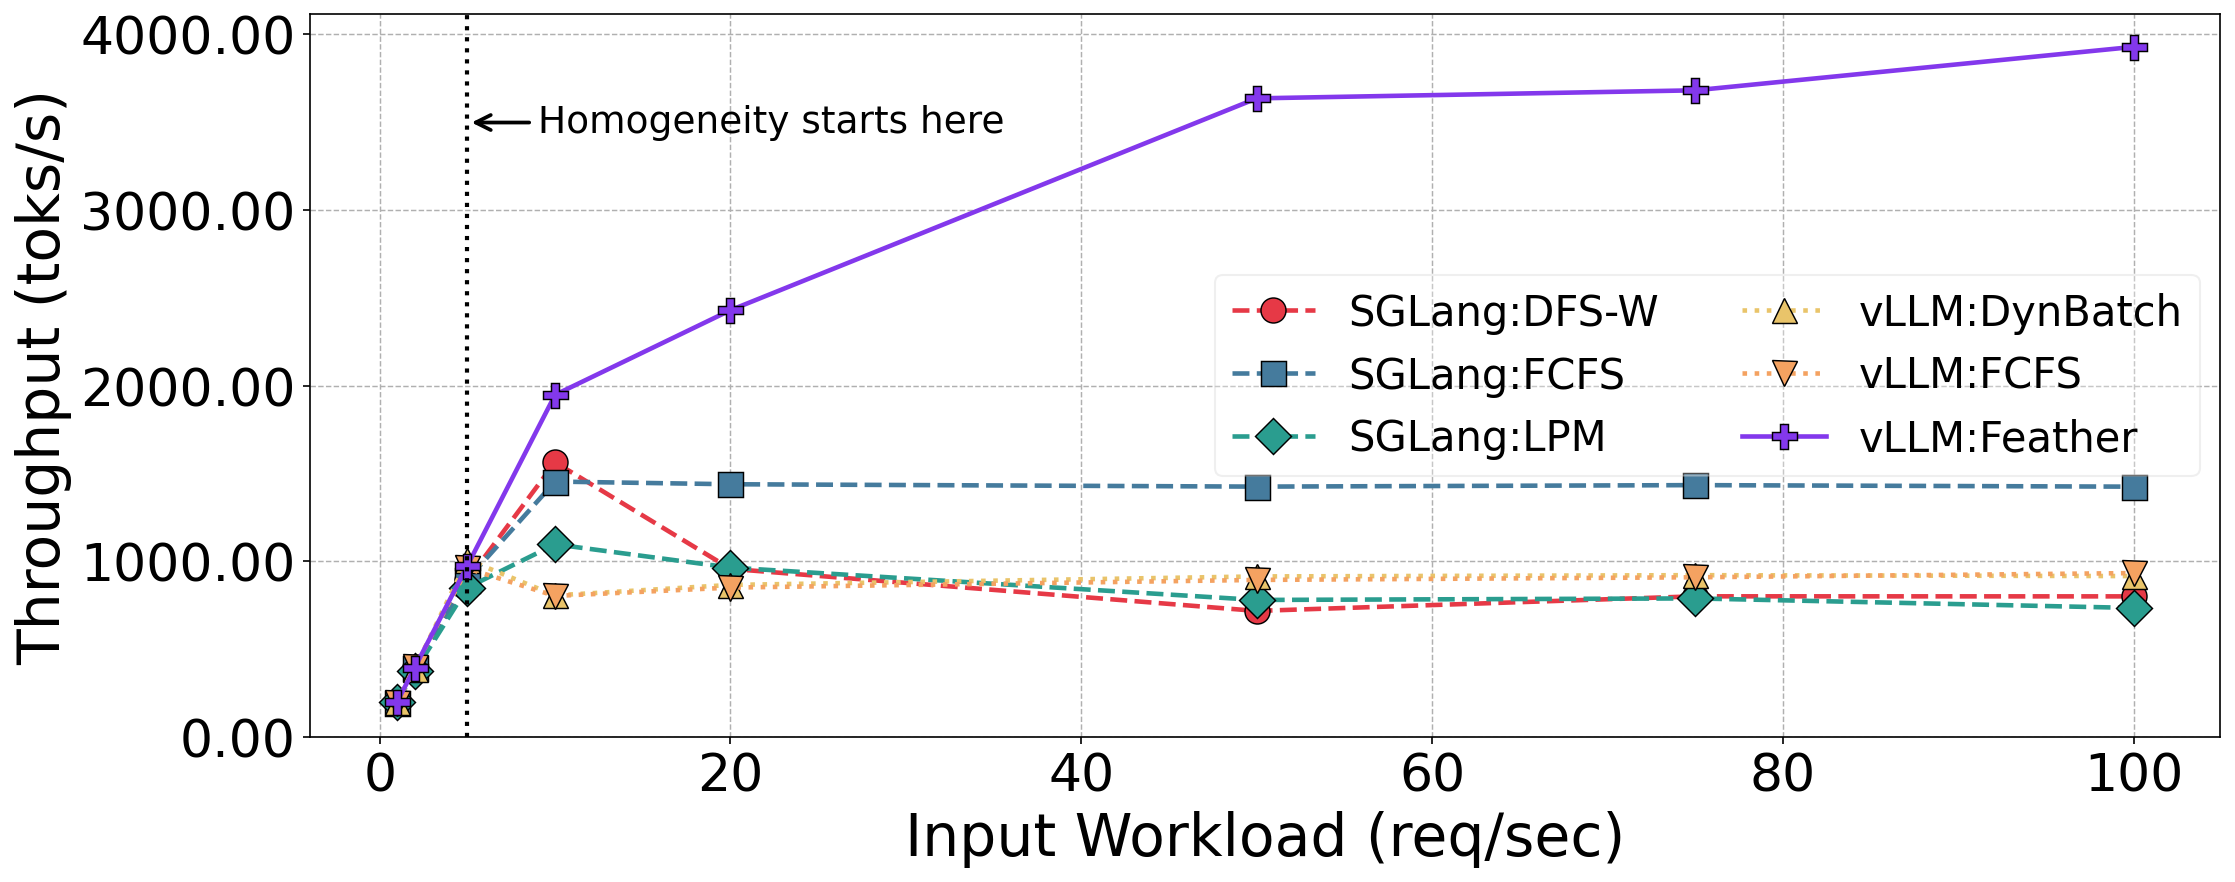
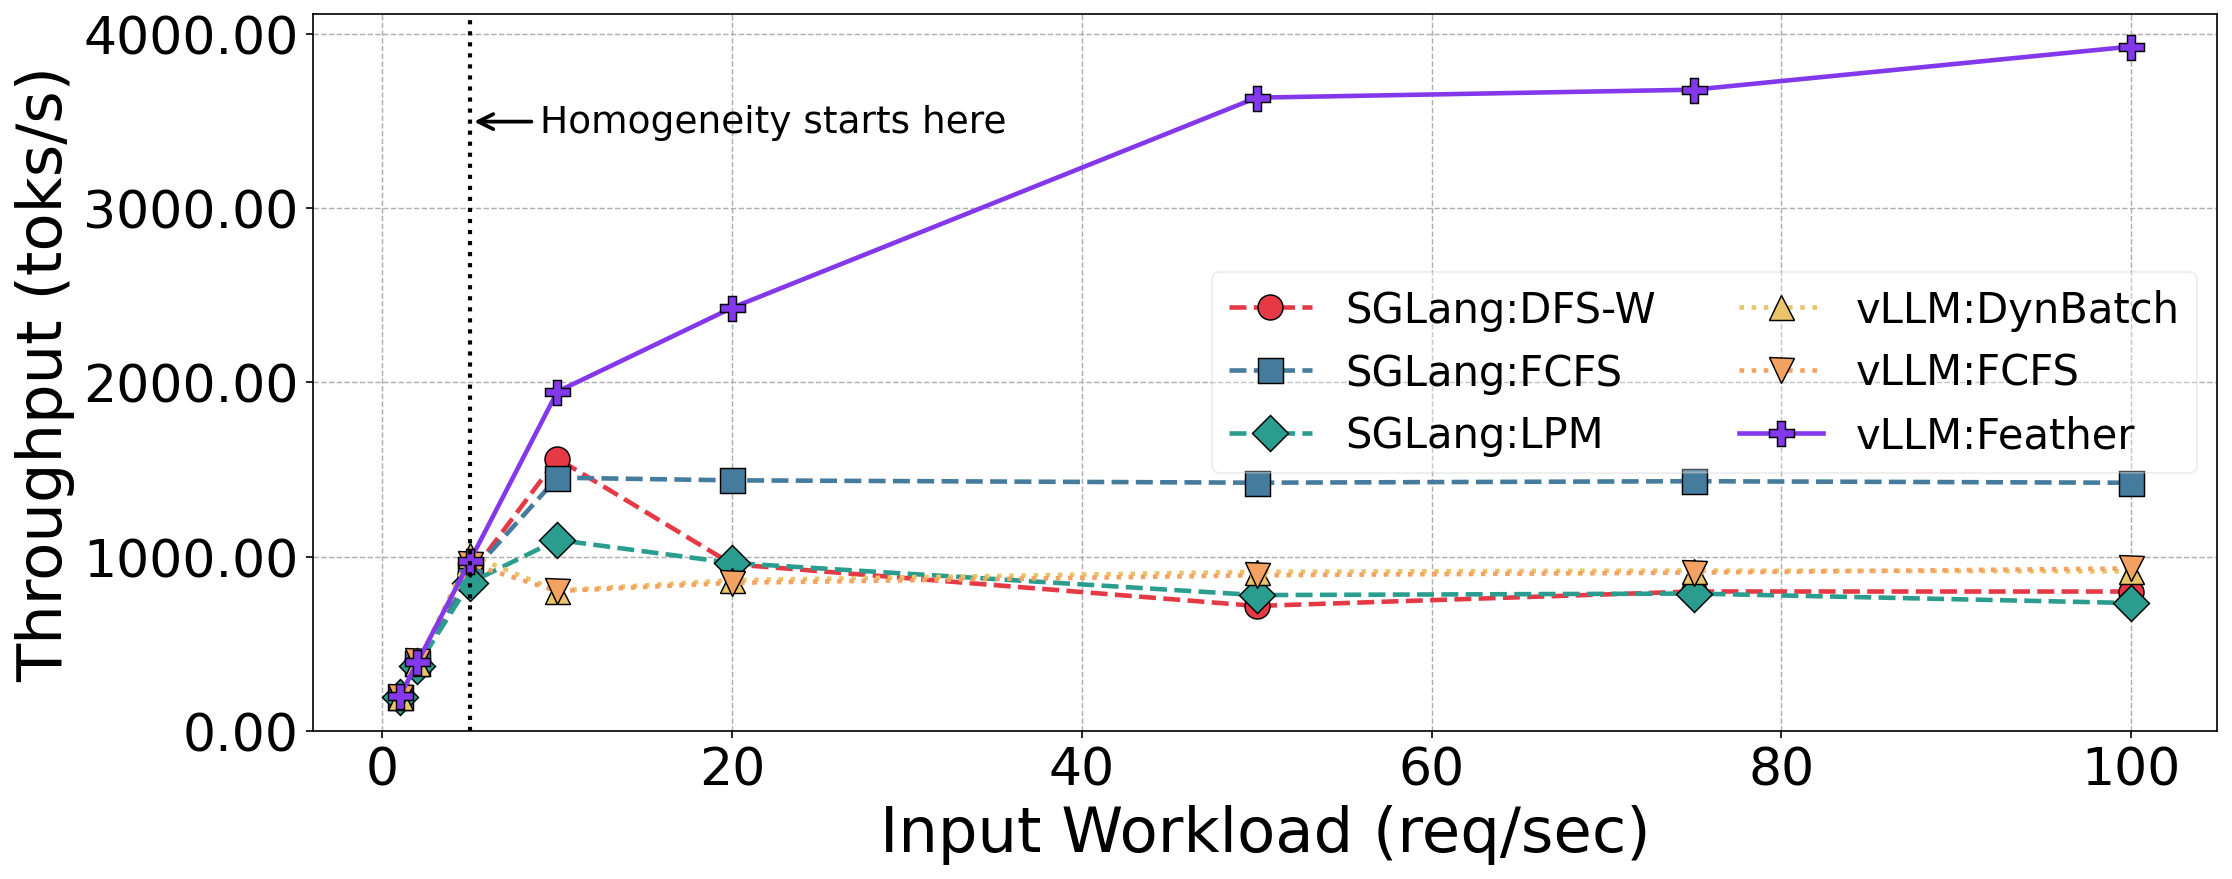
req-plots

diff --git a/code/vllm/req_per_sec_logs/plot.py b/code/vllm/req_per_sec_logs/plot.py
@@ -191,8 +191,8 @@ def make_plot(metric_key, ylabel, title, outpath):
                 label=label
             )
 
-    ax.set_xlabel("Input Workload (req/sec)", fontsize=28)
-    ax.set_ylabel(ylabel, fontsize=28)
+    ax.set_xlabel("Input Workload (req/sec)", fontsize=30)
+    ax.set_ylabel(ylabel, fontsize=30)
 
     ax.tick_params(axis="both", labelsize=25)
 
@@ -249,14 +249,14 @@ make_plot(
 
 make_plot(
     "avg_batch",
-    "Avg Running Batch Size",
-    "Average Running Batch Size vs Request Rate",
+    "Avg Batch Size",
+    "Average Batch Size vs Request Rate",
     os.path.join(OUT, "avg_batch_vs_rps.png")
 )
 
 make_plot(
     "avg_diff",
-    "Time Between Tokens (s)",
+    "TBT (s)",
     "Average Consecutive Scheduler Timestamp Diff vs Request Rate",
     os.path.join(OUT, "avg_timediff_vs_rps.png")
 )
